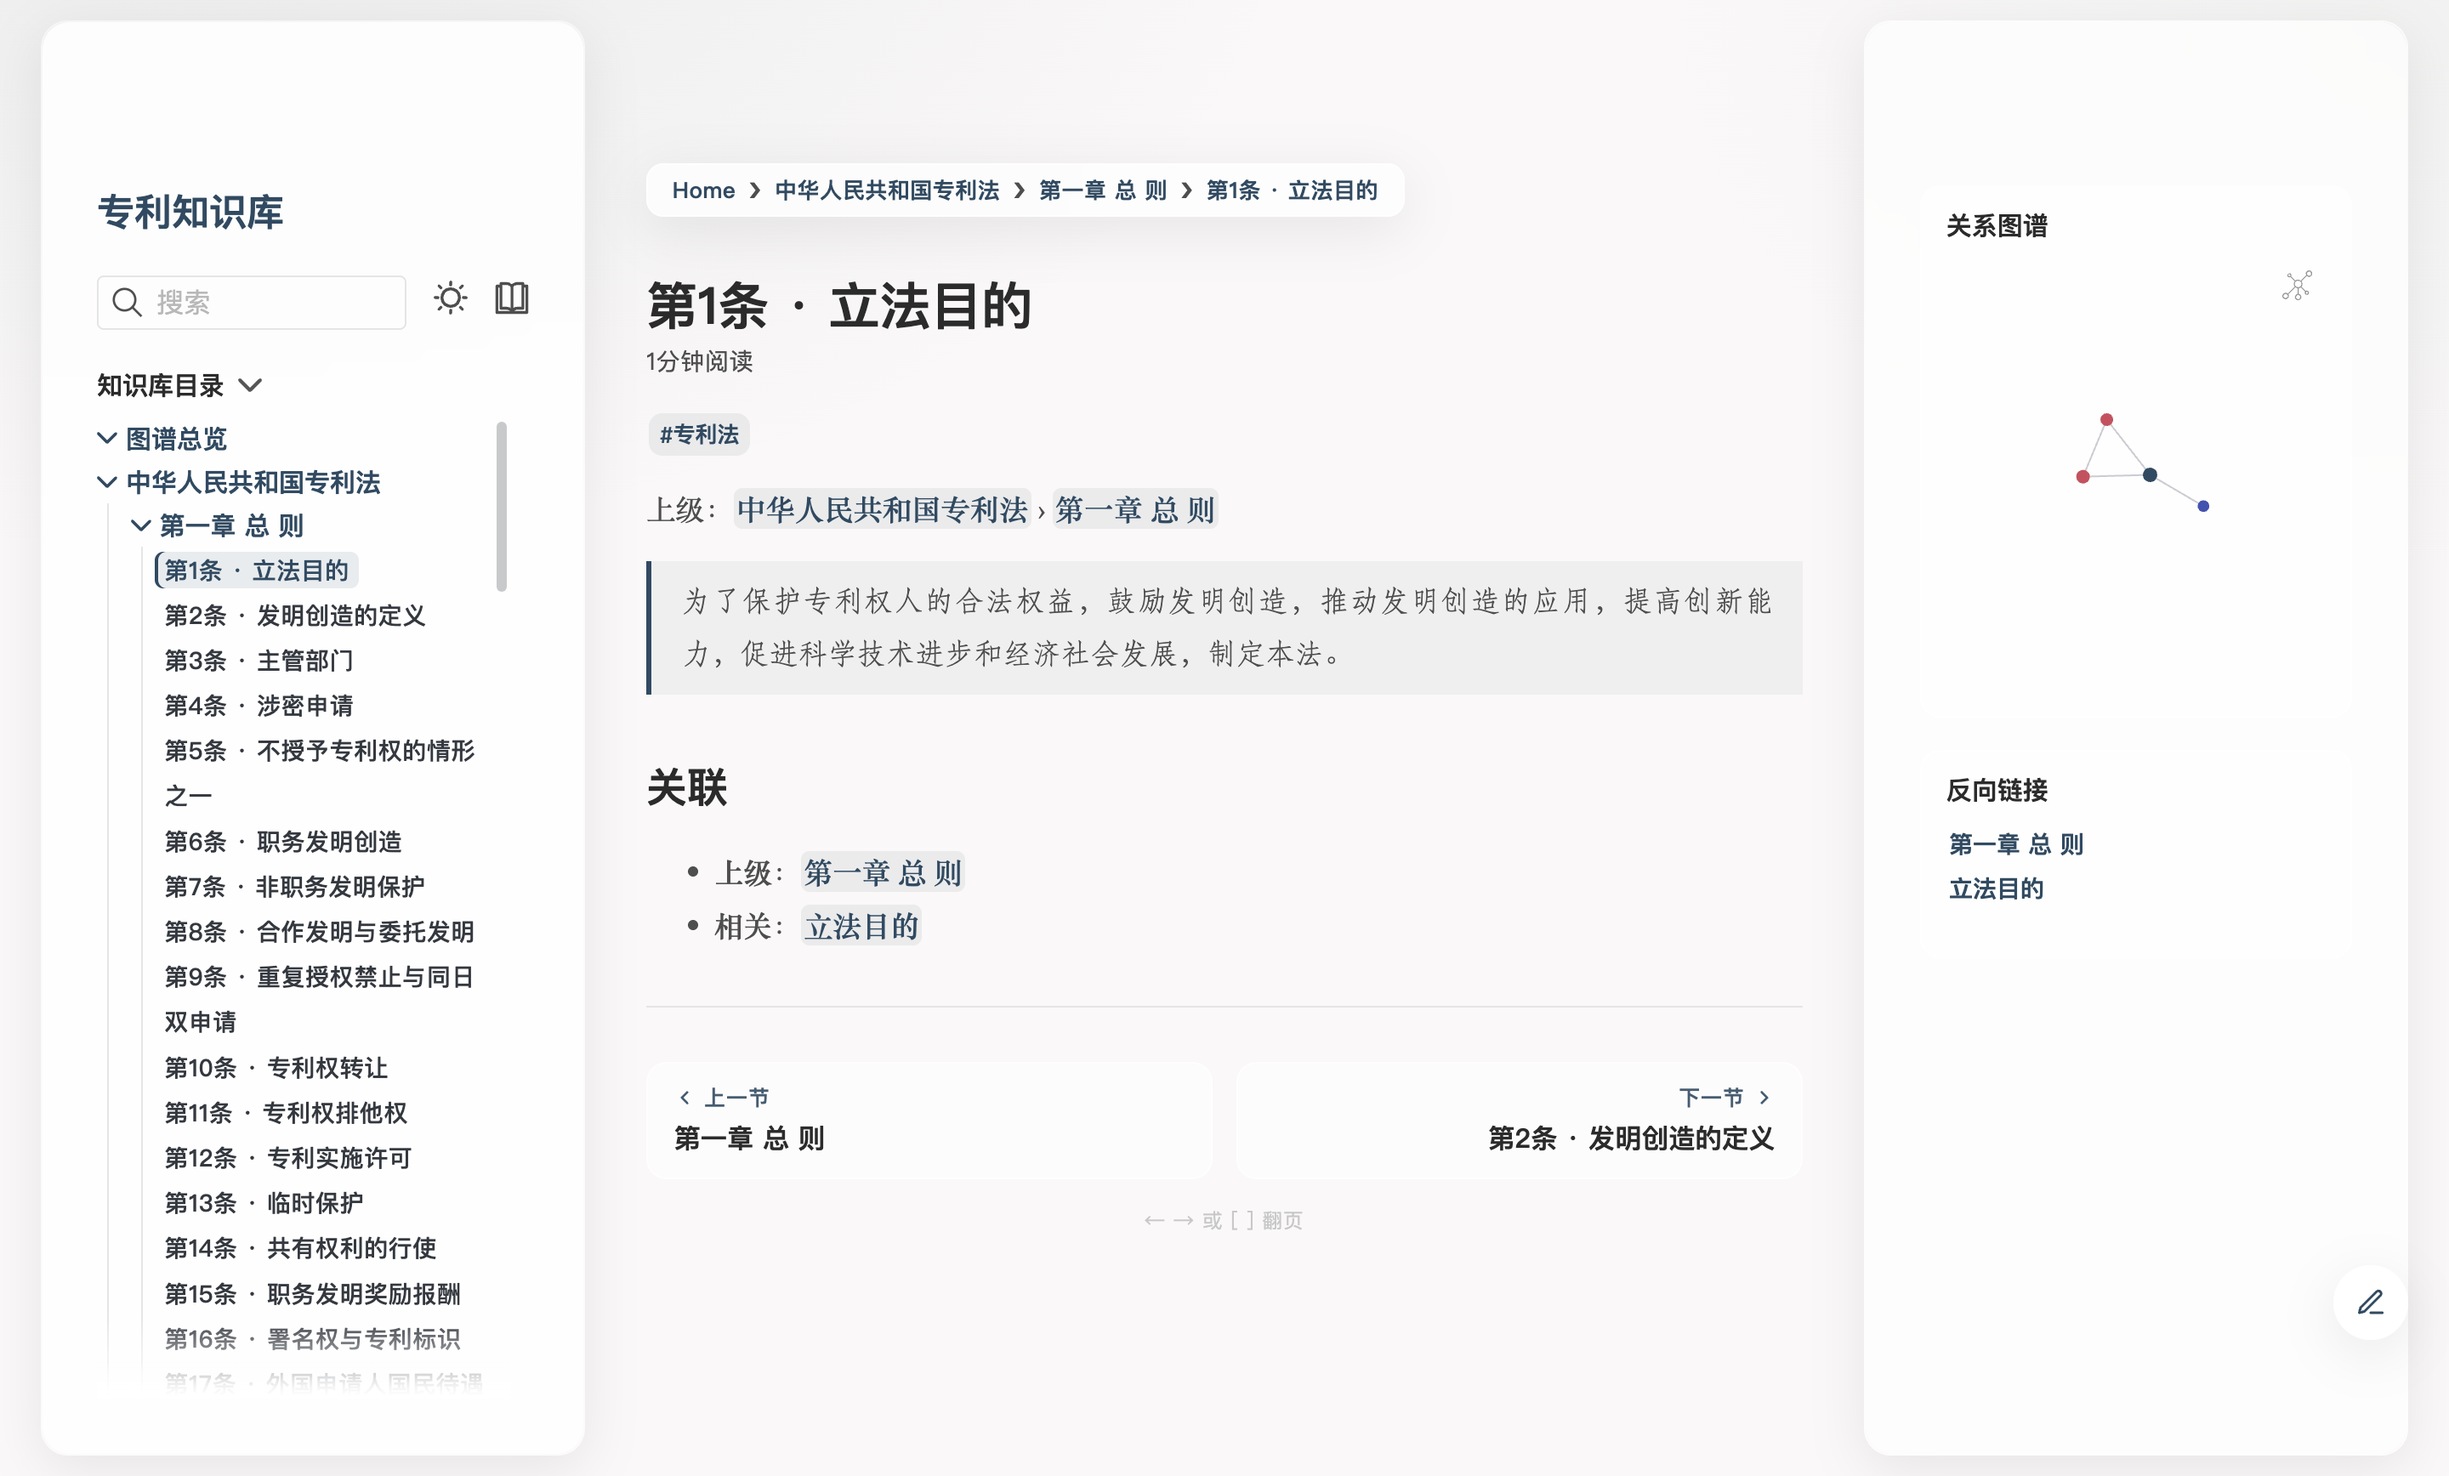
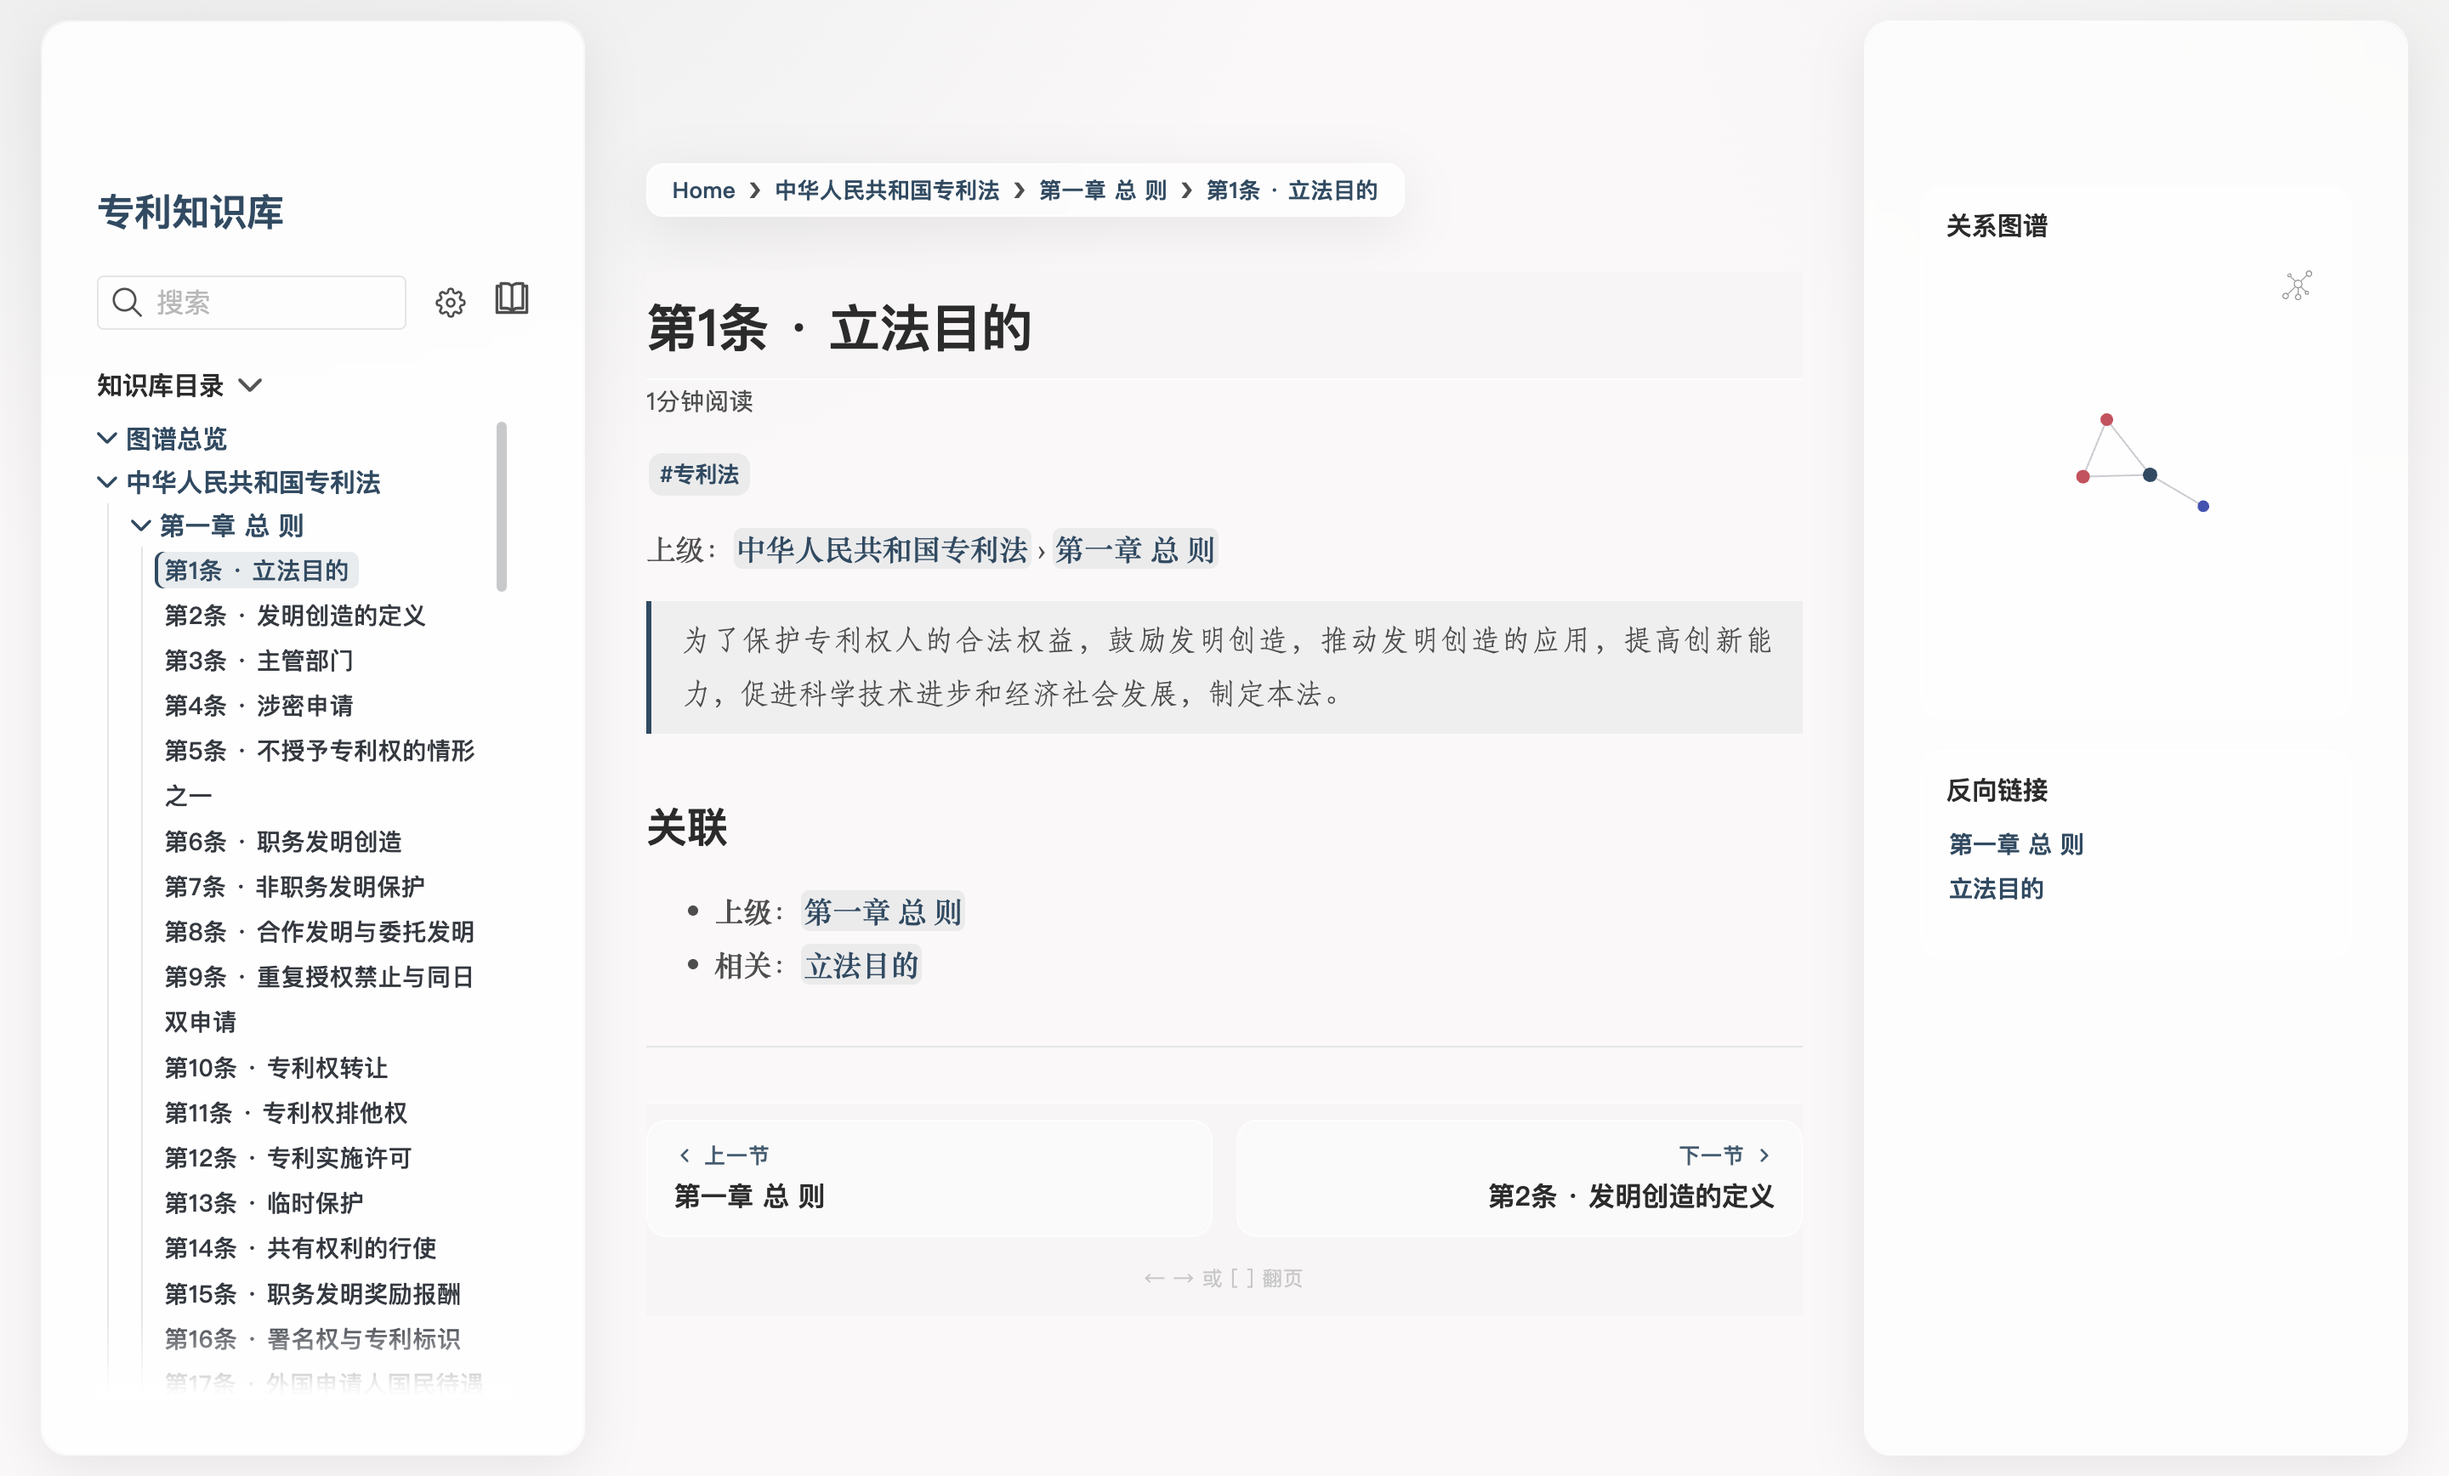
feat(layout): 三明治滚动——标题固定顶、翻页栏固定底、仅正文滚动
- .article-title sticky top + 玻璃实底背景
- .page-nav-wrapper sticky bottom + 玻璃实底背景
- 冒烟审计截图随 smoke 更新

diff --git a/quartz-kb/quartz/components/ArticleTitle.tsx b/quartz-kb/quartz/components/ArticleTitle.tsx
@@ -13,6 +13,15 @@ const ArticleTitle: QuartzComponent = ({ fileData, displayClass }: QuartzCompone
 ArticleTitle.css = `
 .article-title {
   margin: 2rem 0 0 0;
+  /* v8 三明治滚动：标题固定视口顶部，仅正文滚动。
+     sticky 元素必须不透明背景，否则正文从下方透出。
+     注意：内联 CSS 不走 SCSS 编译，注释必须用块注释 */
+  position: sticky;
+  top: 0;
+  z-index: 50;
+  padding: 0.8rem 0 0.6rem;
+  background-color: var(--glass-bg-solid, var(--light));
+  border-bottom: 1px solid var(--glass-border, var(--lightgray));
 }
 `
 

diff --git a/quartz-kb/quartz/components/styles/pageNav.scss b/quartz-kb/quartz/components/styles/pageNav.scss
@@ -10,6 +10,14 @@
   max-width: var(--reading-col, 48.875rem);
   margin: 1.5rem auto 0;
   box-sizing: border-box;
+  // v8 三明治滚动：翻页栏固定视口底部，仅正文滚动。
+  // sticky 元素必须不透明背景，否则正文从下方透出
+  position: sticky;
+  bottom: 0;
+  z-index: 50;
+  padding: 0.6rem 0;
+  background-color: var(--glass-bg-solid, var(--light));
+  border-top: 1px solid var(--glass-border, var(--lightgray));
 }
 
 .page-nav {
